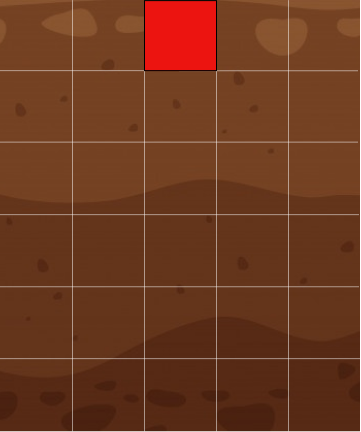
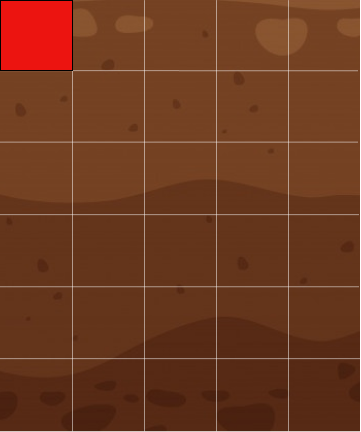
Bitmaps are global. New Images of field

Changed region(s): [[0.3961, 0.0, 0.6094, 0.1806], [0.0, 0.0, 0.2133, 0.1806]]

diff --git a/GrannysGardenGame/View/GameForm.cs b/GrannysGardenGame/View/GameForm.cs
@@ -21,6 +21,19 @@ namespace GrannysGardenGame.View
         System.Windows.Forms.Timer timer = new System.Windows.Forms.Timer();
         int cellWidth = 75;//78
         int cellHeight = 85;//54
+        Bitmap playerImage = new Bitmap(@".\Images\Player.png");
+        Bitmap zombImage = new Bitmap(@".\Images\Zomb.png");
+        Bitmap deadZomb = new Bitmap(@".\Images\DeadWeed.png");
+        Bitmap freezedZomb = new Bitmap(@".\Images\FreezedZomb.png");
+        Bitmap fieldImage = new Bitmap(@".\Images\FieldWithRedCell.png");
+        Bitmap houseImage = new Bitmap(@".\Images\House.png");
+        Bitmap grannysImage = new Bitmap(@".\Images\Granny.png");
+        Bitmap healthText = new Bitmap(@".\Images\HealthText.png");
+        Bitmap scoreText = new Bitmap(@".\Images\ScoreTextpng.png");
+        Bitmap bulletImage = new Bitmap(@".\Images\Bullet.png");
+        Bitmap learnImage = new Bitmap(@".\Images\Learn.png");
+        Bitmap toWinImage = new Bitmap(@".\Images\ToWin.png");
+        Bitmap zaBabkuIPomidoryImage = new Bitmap(@".\Images\ZaBabku.png");
 
         public GameForm()
         {
@@ -35,9 +48,6 @@ namespace GrannysGardenGame.View
             
             //InitializeComponent();
             
-            var learnImage = new Bitmap(@".\Images\Learn.png");
-            var toWinImage = new Bitmap(@".\Images\ToWin.png");
-            var zaBabkuIPomidoryImage = new Bitmap(@".\Images\ZaBabku.png");
             var learnBox = new PictureBox
             {
                 Width = 316,
@@ -73,10 +83,7 @@ namespace GrannysGardenGame.View
         {
             base.OnPaint(e);
 
-            var houseImage = new Bitmap(@".\Images\House.png");
-            var grannysImage = new Bitmap(@".\Images\Granny.png");
-            var healthText = new Bitmap(@".\Images\HealthText.png");
-            var scoreText = new Bitmap(@".\Images\ScoreTextpng.png");
+            
             var h = game.player.Health;
             var s = game.player.Scores;
             var health = new Rectangle(new Point(42 + healthText.Width, 14), new Size((675 * h) / 100, 12));
@@ -90,18 +97,8 @@ namespace GrannysGardenGame.View
             e.Graphics.DrawImage(scoreText, 12, 41);
             e.Graphics.DrawImage(grannysImage, 50, 60, 64, 79);
             e.Graphics.DrawImage(houseImage, 210, 0, 150, 140);
-           
-
-            var playerImage = new Bitmap(@".\Images\Player.png");
-            var zombImage = new Bitmap(@".\Images\Zomb.png");
-            var deadZomb = new Bitmap(@".\Images\DeadWeed.png");
-            var freezedZomb = new Bitmap(@".\Images\FreezedZomb.png");
-            var fieldImage = new Bitmap(@".\Images\FieldWithRedCell.png");
-
             e.Graphics.DrawImage(fieldImage, 0, 134, game.field.Width * cellWidth, game.field.Height * cellHeight);
             e.Graphics.DrawImage(playerImage, game.player.CurrentPos.X * cellWidth, game.player.CurrentPos.Y * cellHeight + 134f, 70, 93);
-            //e.Graphics.FillRectangle(Brushes.Red, 
-                //game.field.winCell.X * cellWidth, game.field.winCell.Y * cellHeight + 134, cellWidth, cellHeight);
 
             foreach(var weed in game.field.weeds)
             {
@@ -112,8 +109,6 @@ namespace GrannysGardenGame.View
                 if (weed.WeedState == WeedStates.Freezed)
                     e.Graphics.DrawImage(freezedZomb, weed.X * cellWidth + 5, weed.Y * cellHeight + 134, zombImage.Width * 1.5f, zombImage.Height * 1.5f);
             }
-
-            var bulletImage = new Bitmap(@".\Images\Bullet.png");
 
             foreach(var bullet in bullets) 
             {
@@ -264,8 +259,9 @@ namespace GrannysGardenGame.View
         {
             foreach(var bullet in bullets) 
             {
-                bullet.MoveBullet();
                 bullet.DeadInConflict(game.field, game.player);
+                bullet.MoveBullet();
+                
             }
         }
 
@@ -288,7 +284,7 @@ namespace GrannysGardenGame.View
             var weeds = game.field.weeds;
             if (bullets.Count == 0) 
             {
-                foreach (var weed in game.field.weeds)
+                foreach (var weed in weeds)
                 { 
                     if (weed.WeedState == WeedStates.Alive)
                         bullets.Add(weed.Shoot());
@@ -322,7 +318,7 @@ namespace GrannysGardenGame.View
 
         string[] level1 = new[] 
             {
-                "W#@WW",
+                "@W#WW",
                 "W#W##",
                 "#W##W",
                 "WW#W#",

diff --git a/GrannysGardenGame/View/Level2.cs b/GrannysGardenGame/View/Level2.cs
@@ -21,6 +21,19 @@ namespace GrannysGardenGame.View
         System.Windows.Forms.Timer timer = new System.Windows.Forms.Timer();
         int cellWidth = 75;
         int cellHeight = 64;
+        Bitmap houseImage = new Bitmap(@".\Images\House.png");
+        Bitmap grannysImage = new Bitmap(@".\Images\Granny.png");
+        Bitmap healthText = new Bitmap(@".\Images\HealthText.png");
+        Bitmap scoreText = new Bitmap(@".\Images\ScoreTextpng.png");
+        Bitmap playerImage = new Bitmap(@".\Images\Player.png");
+        Bitmap zombImage = new Bitmap(@".\Images\Zomb.png");
+        Bitmap deadZomb = new Bitmap(@".\Images\DeadWeed.png");
+        Bitmap freezedZomb = new Bitmap(@".\Images\FreezedZomb.png");
+        Bitmap fieldImage = new Bitmap(@".\Images\Level2Field.png");
+        Bitmap bulletImage = new Bitmap(@".\Images\Bullet.png");
+        Bitmap learnImage = new Bitmap(@".\Images\Learn.png");
+        Bitmap toWinImage = new Bitmap(@".\Images\ToWin.png");
+        Bitmap zaBabkuIPomidoryImage = new Bitmap(@".\Images\ZaBabku.png");
 
         public Level2()
         {
@@ -35,9 +48,6 @@ namespace GrannysGardenGame.View
 
             //InitializeComponent();
 
-            var learnImage = new Bitmap(@".\Images\Learn.png");
-            var toWinImage = new Bitmap(@".\Images\ToWin.png");
-            var zaBabkuIPomidoryImage = new Bitmap(@".\Images\ZaBabku.png");
             var learnBox = new PictureBox
             {
                 Width = 316,
@@ -73,10 +83,7 @@ namespace GrannysGardenGame.View
         {
             base.OnPaint(e);
 
-            var houseImage = new Bitmap(@".\Images\House.png");
-            var grannysImage = new Bitmap(@".\Images\Granny.png");
-            var healthText = new Bitmap(@".\Images\HealthText.png");
-            var scoreText = new Bitmap(@".\Images\ScoreTextpng.png");
+            
             var h = game.player.Health;
             var s = game.player.Scores;
             var health = new Rectangle(new Point(42 + healthText.Width, 14), new Size((675 * h) / 100, 12));
@@ -90,18 +97,8 @@ namespace GrannysGardenGame.View
             e.Graphics.DrawImage(scoreText, 12, 41);
             e.Graphics.DrawImage(grannysImage, 50, 60, 64, 79);
             e.Graphics.DrawImage(houseImage, 210, 0, 150, 140);
-
-
-            var playerImage = new Bitmap(@".\Images\Player.png");
-            var zombImage = new Bitmap(@".\Images\Zomb.png");
-            var deadZomb = new Bitmap(@".\Images\DeadWeed.png");
-            var freezedZomb = new Bitmap(@".\Images\FreezedZomb.png");
-            var fieldImage = new Bitmap(@".\Images\Level2Field.png");
-
             e.Graphics.DrawImage(fieldImage, 0, 134, game.field.Width * cellWidth, game.field.Height * cellHeight);
             e.Graphics.DrawImage(playerImage, game.player.CurrentPos.X * cellWidth + 4, game.player.CurrentPos.Y * cellHeight + 104, 70, 97);
-            //e.Graphics.FillRectangle(Brushes.Red, 
-            //game.field.winCell.X * cellWidth, game.field.winCell.Y * cellHeight + 134, cellWidth, cellHeight);
 
             foreach (var weed in game.field.weeds)
             {
@@ -112,8 +109,6 @@ namespace GrannysGardenGame.View
                 if (weed.WeedState == WeedStates.Freezed)
                     e.Graphics.DrawImage(freezedZomb, weed.X * cellWidth + 6, weed.Y * cellHeight + 124, zombImage.Width * 1.5f, zombImage.Height * 1.5f);
             }
-
-            var bulletImage = new Bitmap(@".\Images\Bullet.png");
 
             foreach (var bullet in bullets)
             {
@@ -262,8 +257,8 @@ namespace GrannysGardenGame.View
         {
             foreach (var bullet in bullets)
             {
-                bullet.MoveBullet();
                 bullet.DeadInConflict(game.field, game.player);
+                bullet.MoveBullet();
             }
         }
 
@@ -306,7 +301,7 @@ namespace GrannysGardenGame.View
 
         string[] level2 = new[]
             {
-                "WW@WW",
+                "@W#WW",
                 "##W#W",
                 "#W###",
                 "W##W#",
